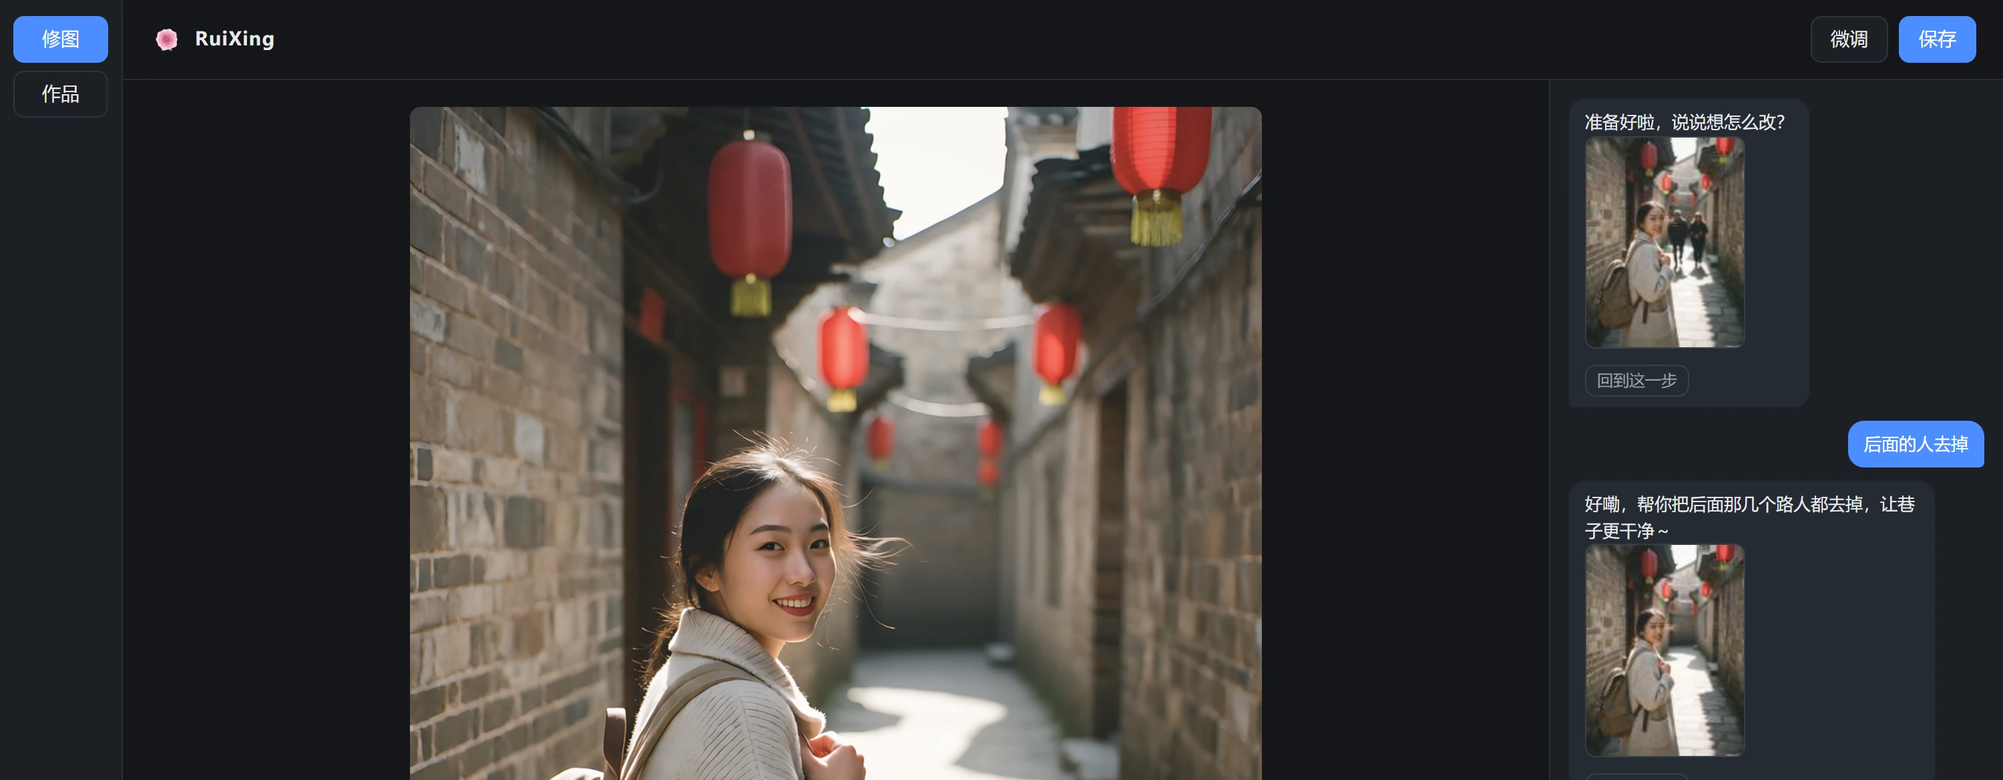
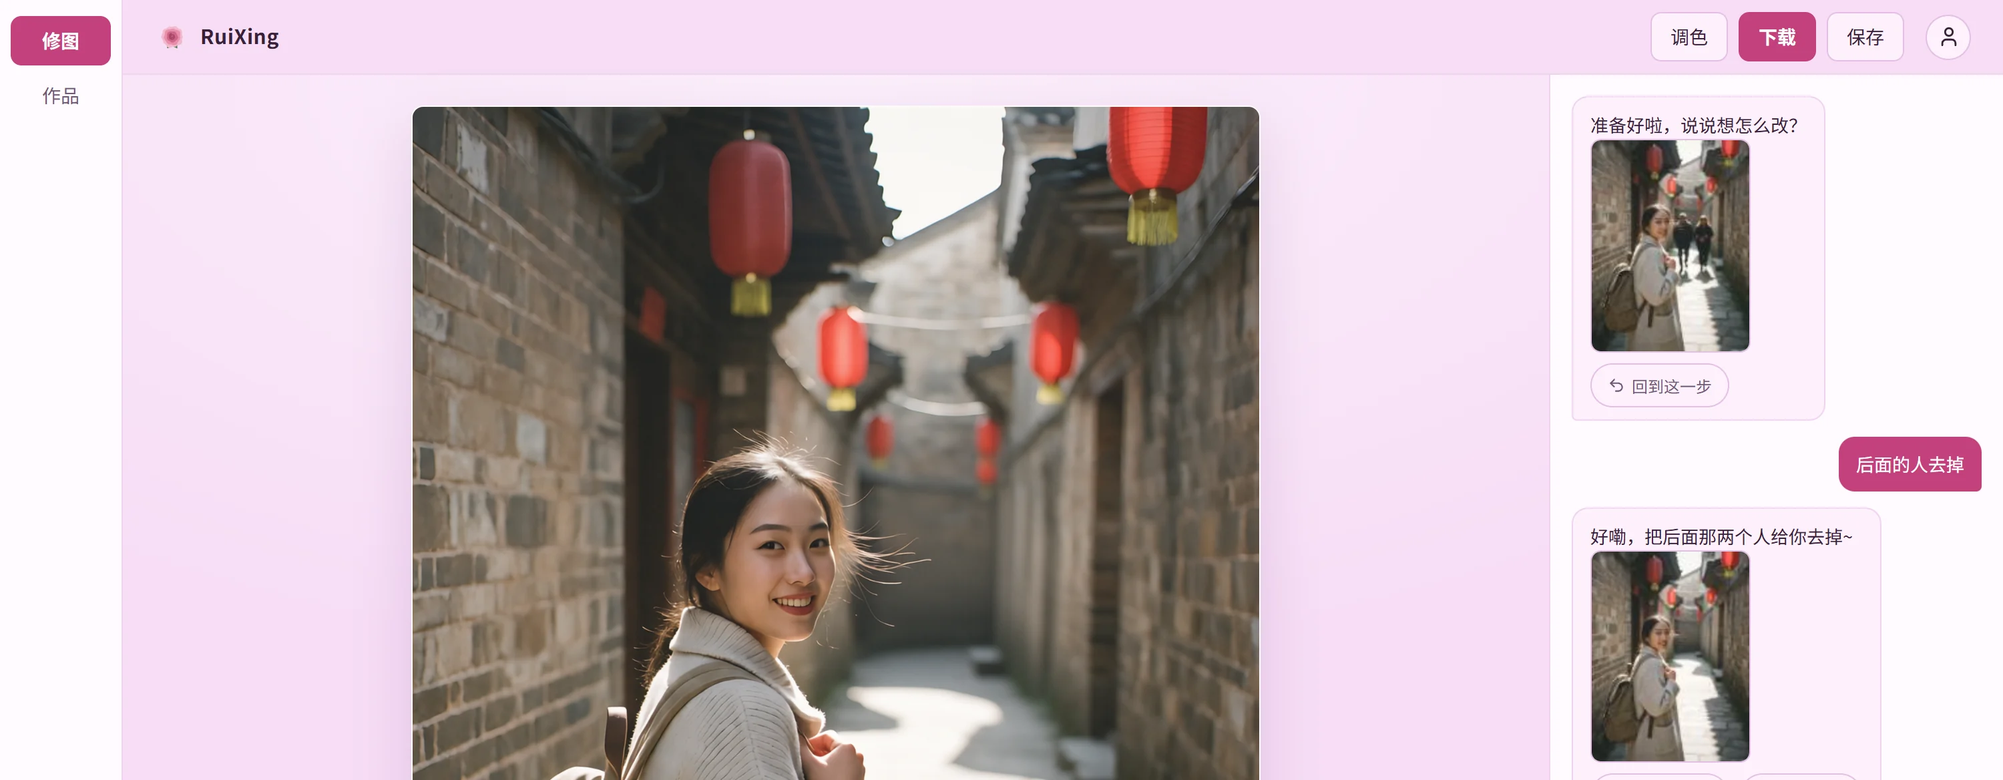
style(界面): 落地页从"白+黄"并进品牌玫瑰 —— 顺手把产品图重拍了
## 为什么（不是好不好看）

落地页原来自成一套：暖白底、一颗黄 #ffd93d、一块近黑的深带，文件里还写着
"落地页是门面、App 是工具，两套语言是有意的"。那句话在 App 翻成粉底之后
就变成了病：**打开网站是白+黄，点进去是粉，中间那一下像换了家公司**。
品牌对外只能有一套。（分家之前 App **自己内部**有过三套语言 —— 那种才是病。）

## 改了什么

- 底 / 面 / 强调和 App 同源：粉底 #f7ddf6、白面 #fffaff、强调色品牌玫瑰
  #c3417e；深带从近黑 #050608 换成**深李紫 #1b0d1a**（那一段仍然是全页
  唯一的"关灯"章节，但关灯不等于关掉品牌色）
- bento 的格子从"页面底色"改成**白面** —— App 的语言是"粉底 + 白面板"两层，
  门面照抄这两层，两边看起来才是一家的
- 顶栏和开场的字色自成一套令牌（那条通栏**永远压在照片上**，字色不能跟
  页面的墨色走 —— 页面的墨色是给粉底算的）
- 阴影从纯黑换成带品红的淡影（和 App 同一条规矩：黑影子压粉底会发灰发脏）
- 深色模式那一段跟着重写（原来深色下 --lp-deep 和 --lp-bg 几乎同色，
  那一章节是看不见的）

对比度每一档都重算过，数写在值旁边。

## ⚠ 顺手挖出来一个大问题：产品图拍的是**已经不存在的产品**

入库那两张是 09-29 23:07 截的，而 App 在 09-30 / 10-01 被重做了两轮 ——
图里还是**深色底 + 蓝按钮**，那颗按钮上还写着「微调」（09-30 就改名成
「调色」了）。门面在展示一个不存在的产品，而浏览器不会报任何错。

- `_shot_live2.py` 重拍，**两种模式各一套**：深底上嵌一张浅色的产品图 =
  两块发光的亮粉方块（人眼第一眼撞见的是它们，不是标题）。
  `<picture>` + `media="(prefers-color-scheme: dark)"` 按偏好选图，两张都下载不到的
- 面板那张浮层的形状从 3.7:1 变成 7.7:1，原来那条 `padding-bottom: 17%`
  是按旧形状算的，浮层会掉到主窗口下面去。现在 `calc(9.4% - 40px)`，
  并在注释里写清**这个数怎么来的**（浮层行高 = 72% × 图的高宽比，换图就得重算）
- ⚠ 重拍脚本里有个竞态：生成中那一格会**换成「停止」那颗按钮**，
  `button[type=submit]` 于是选不中任何东西。改成等「再来一版」
  （`.bubble-rerun` 只在**成功之后**才出现）—— 这个坑白跑过一次

## 验证

check:layout（落地页 13 张图一张不少、大标题和「免费开始」仍在首屏）、
check:dev-urls、逐元素对比度两种模式、`landing_shots.py` 两种模式各 7 屏
+ 手机 5 屏，人眼看过了。

diff --git a/src/landing.css b/src/landing.css
@@ -11,34 +11,70 @@
    长得完全不像，将来谁改一边准保踩到另一边。`--accent` 同理：这边是**黄色**，
    App 那边是**粉玫瑰**。加了前缀之后，"这份文件里的东西只属于这份文件"。
 
-   ⚠ 这一份的配色和 App **不是一套，这是有意的**：落地页是门面（浅色、黄点缀、
-   大留白），App 是干活的工具（深色、粉点缀、密）。两种语境，两套语言 ——
-   分家之前 App 自己内部有过三套语言，那种才是病。别再试图把它们合成一套。
+   ★ 2026-10-01 第二次改：**这套配色从"另立门户"改成"和 App 同源"**。
+
+   原来这一份自己就是一套语言：暖白底、一颗黄 `#ffd93d`、一块近黑的深带，
+   文件里还写着"落地页是门面、App 是工具，两套语言是有意的"。那句话在
+   **App 当天翻成粉底之后就变成了病**：打开网站是白+黄的，点「免费开始」
+   进去是粉的，中间那一下像换了家公司。分家之前 App **自己内部**有过三套
+   语言，那种才是要治的病；品牌**对外**只能有一套。
+
+   现在的取色规则（和 App 的 `styles.css` 同源，但**令牌仍然各占一套** ——
+   `lp-` 前缀这条规矩没变，两边同名会打架）：
+     · 底 = App 的 `--bg`（同一支樱花粉：门面就是产品本身的颜色）
+     · 面 = 白面板压上去，和 App 一样是"粉底 + 白卡片"两层
+     · 强调 = 品牌玫瑰 `#c3417e`（taste skill 挑的那一档）
+     · 深带 = **深李紫 `#1b0d1a`，不是近黑** —— 那一段仍然是全页唯一的
+       "关灯"章节，但关灯不等于关掉品牌色：把粉底压深、色相不跑
+     · 阴影 = 带品红的淡影（纯黑的影子压在粉底上会发灰、发脏，和 App 同规矩）
+
+   ⚠ 每一档旁边都写着实测对比度。**改色之前先算一遍**：浅底上"淡一档"
+   是往不合格走，深底上反过来。
 
    旋钮（原样保留）：VARIANCE 7 / MOTION 4 / DENSITY 5
    ═══════════════════════════════════════════════════════════════════════ */
 .lp {
-  --lp-accent: #ffd93d;      /* 这一屏唯一的强调色 */
-  --lp-accent-ink: #14161b;
-  --lp-ink: #0a0b0e;
-  --lp-ink-2: #43484f;
-  --lp-ink-3: #8b9099;
-  --lp-bg: #fbfbf9;
-  --lp-surface: #ffffff;
-  --lp-line: #e7e5e0;
-  --lp-line-2: #d5d3cd;
-  --lp-deep: #050608;        /* 全页唯一那块深色，压到近黑 */
-  --lp-deep-2: #101318;
-  --lp-deep-ink: #f6f7f9;
-  --lp-deep-ink-2: #9aa0ac;
+  /* ── 颜色（2026-10-01 翻成品牌玫瑰；括号里是实测对比度）────────────── */
+  --lp-accent: #c3417e;        /* 这一屏唯一的强调色：白字压它 4.80:1、它压粉底 3.80:1 */
+  --lp-accent-hover: #ae376f;  /* 悬停（白字 5.87:1）—— 两个模式共用，见下面 */
+  --lp-accent-ink: #ffffff;    /* 压在强调色上的字 */
+  --lp-ink: #2b1229;           /* 标题：压粉底 13.62:1 / 压白面 16.68:1 */
+  --lp-ink-2: #5c3d61;         /* 正文（lede）：压粉底 7.24:1 */
+  --lp-ink-3: #76597c;         /* 最淡那档（15px 图注、14px 页脚）：4.76:1 —— 刚过线，别再调淡 */
+  --lp-bg: #f7ddf6;            /* 页面底 = App 的 --bg，同一支粉 */
+  --lp-surface: #fffaff;       /* 浮起来的面（右下角浮标）= App 的 --panel */
+  --lp-line: #ecc9e9;          /* 分隔线、bento 的缝 */
+  --lp-line-2: #dcb0da;        /* 重一档的描边 */
+  --lp-deep: #1b0d1a;          /* 全页唯一那块深色：粉底压深、色相不跑 */
+  --lp-deep-ink: #fdf3fb;      /* 压深带 17.33:1 */
+  --lp-deep-ink-2: #c3a8bf;    /* 压深带 8.64:1 */
+  /* 顶栏那条通栏**永远压在照片上**（照片什么颜色都有可能），所以它自带一套
+     字色，不跟页面的墨色走 —— 页面的墨色是给粉底算的。 */
+  --lp-nav-bg: rgba(27, 13, 26, .58);
+  --lp-nav-ink: #fdf3fb;       /* 最暗的照片上也 10.5:1 */
+  --lp-nav-ink-2: #cbb3c9;     /* 5.87:1 */
+  --lp-hero-ink-2: #d8c3d5;    /* 开场那句副文案（压在最暗处 6.87:1）*/
   --lp-r: 14px;
   --lp-pill: 999px;
 }
+/* ── 深色模式（2026-10-01 加：消费级产品的两种模式都要设计）────────────
+   ⚠ **强调色两个模式**共用** `#c3417e`：白字压它 4.80:1，两种底上都过关。
+   深底上把强调色调亮会更好看，但那一亮，压在它上面的字就得**从白翻成近黑**
+   —— 项目里已经吃过一次这种"深浅关系偷偷反过来"的亏（见 styles.css 顶部）。
+   深色模式的身份感由**底**来给，不由强调色给。 */
 @media (prefers-color-scheme: dark) {
   .lp {
-    --lp-ink: #f6f7f9; --lp-ink-2: #c6cbd4; --lp-ink-3: #8a909c;
-    --lp-bg: #08090c; --lp-surface: #12151b; --lp-line: #232831; --lp-line-2: #2c323d;
-    --lp-deep: #050608; --lp-deep-2: #12151b;
+    --lp-ink: #fbeff9;   /* 压底 17.34:1 */
+    --lp-ink-2: #d3b4cf; /* 10.32:1 */
+    --lp-ink-3: #b090ad; /* 6.85:1 */
+    --lp-bg: #241223;
+    --lp-surface: #331a31;
+    --lp-line: #42263f; --lp-line-2: #553353;
+    /* 深色模式里那一段仍然是"更深的一块"，只是整页都暗下来了，
+       所以底往**亮**走了一点、深带留在最暗处，两块才分得开。 */
+    --lp-deep: #0d050c;
+    --lp-deep-ink: #fdf3fb; --lp-deep-ink-2: #c3a8bf;
+    --lp-nav-bg: rgba(13, 5, 12, .66);
   }
 }
 
@@ -88,23 +124,23 @@
 .lp-btn:active { transform: translateY(0) scale(.985) }
 .lp-btn-ink { background: var(--lp-ink); color: var(--lp-bg) }
 .lp-btn-accent { background: var(--lp-accent); color: var(--lp-accent-ink) }
-.lp-btn-accent:hover { background: #ffdf63 }
+.lp-btn-accent:hover { background: var(--lp-accent-hover) }
 
 /* ── 导航：整条通栏，不是悬浮胶囊 ─────────────────────────────────── */
 .lp-nav { position: fixed; top: 0; left: 0; right: 0; z-index: 30;
-  background: rgba(10, 11, 14, .5); backdrop-filter: blur(18px) saturate(150%);
+  background: var(--lp-nav-bg); backdrop-filter: blur(18px) saturate(150%);
   border-bottom: 1px solid rgba(255, 255, 255, .08) }
 .lp-nav .lp-wrap { display: flex; align-items: center; gap: 36px; height: 68px }
-.lp-brand { display: flex; align-items: center; gap: 13px; color: #fff; font-weight: 500; font-size: 15.5px; letter-spacing: .01em }
+.lp-brand { display: flex; align-items: center; gap: 13px; color: var(--lp-nav-ink); font-weight: 500; font-size: 15.5px; letter-spacing: .01em }
 /* ⚠ 36px 是**用户定的**，2026-09-29。他看过 32 / 36 / 40 三档，要「大一点」那个。
    别按 App 顶栏那 26px 往回缩 —— 落地页是门面，标志值得大一点。
    （26px 是**下限**，不是目标：项目记忆（logo）里写着彩色版再小粉色就糊成一个点。） */
 .lp-brand img { width: 36px; height: 36px; display: block; flex: none }
 .lp-nav nav { display: flex; gap: 4px; margin-left: auto }
-.lp-nav nav a { color: #a9aebb; text-decoration: none; font-size: 14px; padding: 9px 14px; border-radius: var(--lp-pill);
+.lp-nav nav a { color: var(--lp-nav-ink-2); text-decoration: none; font-size: 14px; padding: 9px 14px; border-radius: var(--lp-pill);
   transition: color .3s ease }
-.lp-nav nav a:hover { color: #fff }
-.lp-nav .lp-login { color: #fff; font-size: 14px; font-weight: 500; text-decoration: none;
+.lp-nav nav a:hover { color: var(--lp-nav-ink) }
+.lp-nav .lp-login { color: var(--lp-nav-ink); font-size: 14px; font-weight: 500; text-decoration: none;
   border: 1px solid rgba(255, 255, 255, .26); border-radius: var(--lp-pill); padding: 8px 20px; margin-left: 10px;
   transition: background-color .3s ease }
 .lp-nav .lp-login:hover { background: rgba(255, 255, 255, .1) }
@@ -117,35 +153,51 @@
   transform: scale(1.05); animation: lp-drift 24s cubic-bezier(.16, 1, .3, 1) forwards }
 @keyframes lp-drift { to { transform: scale(1) } }
 .lp-hero::after { content: ""; position: absolute; inset: 0;
-  background: linear-gradient(180deg, rgba(5, 6, 8, .68) 0%, rgba(5, 6, 8, .16) 32%, rgba(5, 6, 8, .92) 100%) }
+  background: linear-gradient(180deg, rgba(27, 13, 26, .68) 0%, rgba(27, 13, 26, .16) 32%, rgba(27, 13, 26, .92) 100%) }
 .lp-hero-inner { position: relative; z-index: 2; width: 100% }
 .lp-hero h1 { color: #fff; max-width: 13em }
-.lp-hero p { margin-top: 28px; font-size: clamp(16px, 1.6vw, 20px); color: #c2c7d1; max-width: 30em; line-height: 1.8 }
+.lp-hero p { margin-top: 28px; font-size: clamp(16px, 1.6vw, 20px); color: var(--lp-hero-ink-2); max-width: 30em; line-height: 1.8 }
 .lp-hero .lp-btn { margin-top: 48px }
 
 /* ── 产品：两层，面板从主窗口里"掉出来" ──────────────────────────── */
 /* 这一块**破格**：比上下的文字栏宽出去，顶到接近整幅。参考站最显眼的
    一招就是"产品界面占满屏"，文字反而窄。容器自己居中，不靠 margin 算式。 */
 .lp-bleed { padding: 0 28px }
-.lp-prod { position: relative; max-width: 1560px; margin: 76px auto 0; padding-bottom: 17% }
+.lp-prod { position: relative; max-width: 1560px; margin: 76px auto 0; padding-bottom: calc(9.4% - 40px) }
+/* `<picture>` 只是个"按模式选图"的壳，本身不该产生盒子 —— 它默认是 inline，
+   里面那张 `display: block` 的图会因此多出一截行高（图片底下那条缝）。 */
+.lp-prod picture { display: block }
 .lp-prod-base { border-radius: var(--lp-r); overflow: hidden; border: 1px solid var(--lp-line);
-  box-shadow: 0 2px 4px rgba(10, 11, 14, .05), 0 30px 70px -28px rgba(10, 11, 14, .35) }
+  box-shadow: 0 2px 4px rgba(88, 26, 74, .05), 0 30px 70px -28px rgba(88, 26, 74, .35) }
 .lp-prod-base img { width: 100% }
 /* 浮层只从**右下角**掉出来一点点。压太多会切在主窗口的画面中间，
    看着像渲染坏了，不像"分层"。
 
-   压多少是有讲究的：产品图现在拍的是「用户说一句话 → AI 回一句」，
-   回复气泡和它的缩略图正好落在右下角 —— 压过 1168 那条线就把缩略图
-   横切成两截。所以 padding-bottom 从 12% 提到 17%：浮层往下退 70px，
-   让开那条回复。再少就跟主窗口挨不上了，"分层"就没了。 */
+   ⚠ **`padding-bottom` 不是一个可以凭感觉写的数**：它留的是浮层那点高度，
+   而浮层是 `width: 72%` 的图 —— 所以它占的行高 = `72% × 图的高宽比`。
+   图一换形状，这个数就得跟着重算，否则浮层要么和主窗口脱开一截（留太多）、
+   要么把主窗口的对话栏压掉（留太少）。
+
+   2026-10-01 产品图重拍时的实测：
+     旧图 2820×760（3.7:1）→ 行高 72% × 0.27 = **19.4%**，当年写的是 17%
+     新图 2816×366（7.7:1）→ 行高 72% × 0.13 = **9.4%**，再减去 40px 让
+     它**压住**主窗口底边一点点（不压就"掉"不出来了，那才是这个设计的意思）。
+
+   （旧注释留在这里，别的没变：原来压到 1168 那条线会横切回复气泡的缩略图，
+   所以让它往下退，让开那条回复。） */
 .lp-prod-float { position: absolute; right: -1%; width: 72%; bottom: 0; border-radius: 12px; overflow: hidden;
   border: 1px solid rgba(255, 255, 255, .09);
-  box-shadow: 0 60px 120px -34px rgba(5, 6, 8, .66), 0 8px 26px -10px rgba(5, 6, 8, .4) }
+  box-shadow: 0 60px 120px -34px rgba(60, 14, 52, .66), 0 8px 26px -10px rgba(60, 14, 52, .4) }
 .lp-prod-float img { width: 100% }
 @media (max-width: 900px) {
   .lp-bleed { padding: 0 18px }
   .lp-prod { margin-top: 44px; padding-bottom: 0 }
   .lp-prod-float { position: static; left: auto; right: auto; margin-top: 14px }
+}
+/* ⚠ 深色模式下那两道投影几乎看不见（浅色底上它们才是把窗口托起来的东西），
+   所以窗口和页面之间只剩描边这一层 —— 描边就得从 --lp-line 提一档。 */
+@media (prefers-color-scheme: dark) {
+  .lp-prod-base, .lp-prod-float { border-color: var(--lp-line-2) }
 }
 
 /* ── 深色带 ───────────────────────────────────────────────────────── */
@@ -156,7 +208,7 @@
 
 /* ── Before / After ───────────────────────────────────────────────── */
 .lp-ba { position: relative; margin-top: 64px; aspect-ratio: 2.05 / 1; overflow: hidden; border-radius: var(--lp-r);
-  box-shadow: 0 40px 90px -34px rgba(10, 11, 14, .45) }
+  box-shadow: 0 40px 90px -34px rgba(88, 26, 74, .45) }
 .lp-ba img { position: absolute; inset: 0; width: 100%; height: 100%; object-fit: cover }
 .lp-ba .lp-after { clip-path: inset(0 0 0 var(--lp-p, 52%)) }
 .lp-ba .lp-handle { position: absolute; top: 0; bottom: 0; left: var(--lp-p, 52%); width: 1px; background: rgba(255, 255, 255, .92);
@@ -194,9 +246,13 @@
 @media (max-width: 900px) { .lp-ba { aspect-ratio: 1.25 / 1; margin-top: 40px } .lp-ba-legend { grid-template-columns: 1fr; gap: 24px } }
 
 /* ── 特性 ─────────────────────────────────────────────────────────── */
+/* ★ 2026-10-01：格子从"页面底色"改成**白面**。翻粉底之前格子和页面同色，
+   靠缝（--lp-line）分层就够了；现在页面是粉的，格子要是还跟底同色，
+   这一块就只剩几根线浮在粉上 —— 而 App 那边的语言是"粉底 + 白面板"两层，
+   门面照抄这两层，两边看起来才是一家的。 */
 .lp-bento { display: grid; grid-template-columns: 1.45fr 1fr; gap: 1px; margin-top: 76px;
   background: var(--lp-line); border-radius: var(--lp-r); overflow: hidden }
-.lp-cell { background: var(--lp-bg); padding: 46px 46px 50px }
+.lp-cell { background: var(--lp-surface); padding: 46px 46px 50px }
 .lp-cell.lp-photo { grid-row: span 2; padding: 0; display: flex; flex-direction: column }
 .lp-cell.lp-photo img { width: 100%; flex: 1; min-height: 270px; object-fit: cover }
 .lp-cell.lp-photo .lp-cap { padding: 34px 46px 42px }
@@ -229,7 +285,7 @@
 .lp-dock button { width: 46px; height: 46px; border-radius: var(--lp-pill); border: 1px solid var(--lp-line-2);
   background: var(--lp-surface); color: var(--lp-ink); cursor: pointer; font-size: 17px; line-height: 1;
   display: flex; align-items: center; justify-content: center;
-  box-shadow: 0 8px 24px -8px rgba(10, 11, 14, .3);
+  box-shadow: 0 8px 24px -8px rgba(88, 26, 74, .3);
   opacity: 0; visibility: hidden; pointer-events: none;
   /* ⚠ `visibility: hidden` 那一档是**必须的**（2026-09-30 补的）。
      只写 `opacity: 0` 的话，这个按钮**还在 Tab 顺序里** —— 键盘用户进门第一次
@@ -263,11 +319,11 @@
    和**文档滚动条**这三样的归属是文档级的，写在 `.lp` 里面管不到它们。
    （App 那边是深色，落地页这边是浅色 —— 不换的话浅色页面上挂着一条深灰
    滚动条，Windows 上很显眼。） */
-html.lp-on { color-scheme: light; scrollbar-color: var(--lp-line-2, #d5d3cd) transparent }
-html.lp-on body { background: #fbfbf9 }
+html.lp-on { color-scheme: light; scrollbar-color: var(--lp-line-2, #dcb0da) transparent }
+html.lp-on body { background: #f7ddf6 }
 @media (prefers-color-scheme: dark) {
-  html.lp-on { color-scheme: dark; scrollbar-color: #2c323d transparent }
-  html.lp-on body { background: #08090c }
+  html.lp-on { color-scheme: dark; scrollbar-color: #553353 transparent }
+  html.lp-on body { background: #241223 }
 }
 /* 这一页滚动条用默认宽度就好 —— App 那份的 `thin` 是为它自己的面板算的。 */
 html.lp-on * { scrollbar-width: auto }
@@ -277,11 +333,11 @@ html.lp-on * { scrollbar-width: auto }
    我是谁"那一瞬间 —— 用 App 那套深色的话，浅色页面前会先闪一块深色。
    ⚠ 这里用不上 `html.lp-on`：那个类是 LandingPage 挂载时才加的，而这一屏
    比它早。所以配色写在**元素自己**身上。 */
-.app-loading.lp-loading { background: #fbfbf9; color: #8b9099 }
-.app-loading.lp-loading::before { border-color: #e7e5e0; border-top-color: #0a0b0e }
+.app-loading.lp-loading { background: #f7ddf6; color: #76597c }
+.app-loading.lp-loading::before { border-color: #ecc9e9; border-top-color: #2b1229 }
 @media (prefers-color-scheme: dark) {
-  .app-loading.lp-loading { background: #08090c; color: #8a909c }
-  .app-loading.lp-loading::before { border-color: #232831; border-top-color: #f6f7f9 }
+  .app-loading.lp-loading { background: #241223; color: #b090ad }
+  .app-loading.lp-loading::before { border-color: #42263f; border-top-color: #fbeff9 }
 }
 
 @media (prefers-reduced-motion: reduce) {

diff --git a/src/ui/LandingPage.tsx b/src/ui/LandingPage.tsx
@@ -14,6 +14,10 @@ import beforeShot from '../assets/landing/before.jpg'
 import afterShot from '../assets/landing/after.jpg'
 import appWindow from '../assets/landing/app-window.webp'
 import appPanel from '../assets/landing/app-panel.webp'
+// 深色模式那两张（2026-10-01 补）。**不是另画一版**：App 在两个模式下
+// 真的长这样，两张都是从真界面上截的（`.superpowers/scratch/landing-art/_shot_live2.py`）。
+import appWindowDark from '../assets/landing/app-window-dark.webp'
+import appPanelDark from '../assets/landing/app-panel-dark.webp'
 
 /**
  * 落地页 —— **打开网站看到的第一眼**（2026-09-30 从
@@ -26,9 +30,11 @@ import appPanel from '../assets/landing/app-panel.webp'
  *   ③ 图片从 `create-image/落地页/` 搬进 `src/assets/landing/` 并**入了库**
  *      —— 它们就是页面的内容，不入库的话换台机器 clone 下来这一页是空的。
  *
- * ⚠ **这一页的配色和 App 不是一套，这是有意的**：落地页是门面（浅色、
- * 黄点缀、大留白），App 是干活的工具（深色、粉点缀、密）。两种语境两套语言；
- * 分家之前 App **自己内部**有过三套语言，那种才是病。
+ * ⚠ **这一页的配色和 App 是同一套**（2026-10-01 改）。原来这里写着"两套语言
+ * 是有意的"（门面浅色黄点缀、工具深色粉点缀）—— 那句话在 App 翻成粉底之后
+ * 就不成立了：打开网站是白+黄，点进去是粉，中间那一下像换了家公司。
+ * 现在两边同源：粉底 + 白面 + 品牌玫瑰，深带是压深的粉而不是近黑。
+ * 令牌仍然是 `lp-` 前缀的独立一套（同名会打架），只是**取色规则**一样。
  *
  * 交互只有三处，都不引依赖：
  *   · `.lp-rise` 进场（IntersectionObserver，滚到眼前才升起来）；
@@ -219,10 +225,22 @@ export default function LandingPage({ onEnter }: Props) {
         <div className="lp-bleed">
           <Reveal className="lp-prod">
             <div className="lp-prod-base">
-              <img src={appWindow} alt="RuiXing 修图界面，左边是照片，右边是对话和建议卡片" />
+              {/* ⚠ **深底上不能嵌浅色的产品图。** 这一页切到深色时，屏幕上
+                  会多出两块发光的亮粉方块 —— 人眼第一眼撞见的是它们，不是标题。
+                  `<picture>` 让它跟着访客系统里那个偏好走：选中的那张才下载。
+                  （Linear / Vercel 那类产品页都是这么做的。）
+                  ⚠ `<picture>` 默认是 inline，得在 CSS 里改成块级，
+                  不然里面那张图会多出一截行高。 */}
+              <picture>
+                <source srcSet={appWindowDark} media="(prefers-color-scheme: dark)" />
+                <img src={appWindow} alt="RuiXing 修图界面，左边是照片，右边是对话和建议卡片" />
+              </picture>
             </div>
             <div className="lp-prod-float">
-              <img src={appPanel} alt="展开的调色面板，六套风格预设和八条调整滑块" />
+              <picture>
+                <source srcSet={appPanelDark} media="(prefers-color-scheme: dark)" />
+                <img src={appPanel} alt="展开的调色面板，六套风格预设和八条调整滑块" />
+              </picture>
             </div>
           </Reveal>
         </div>
